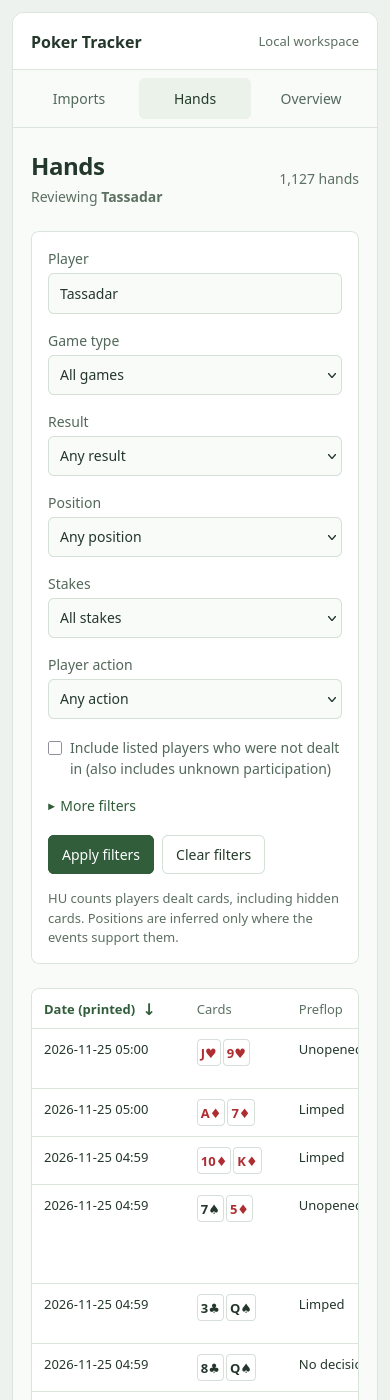
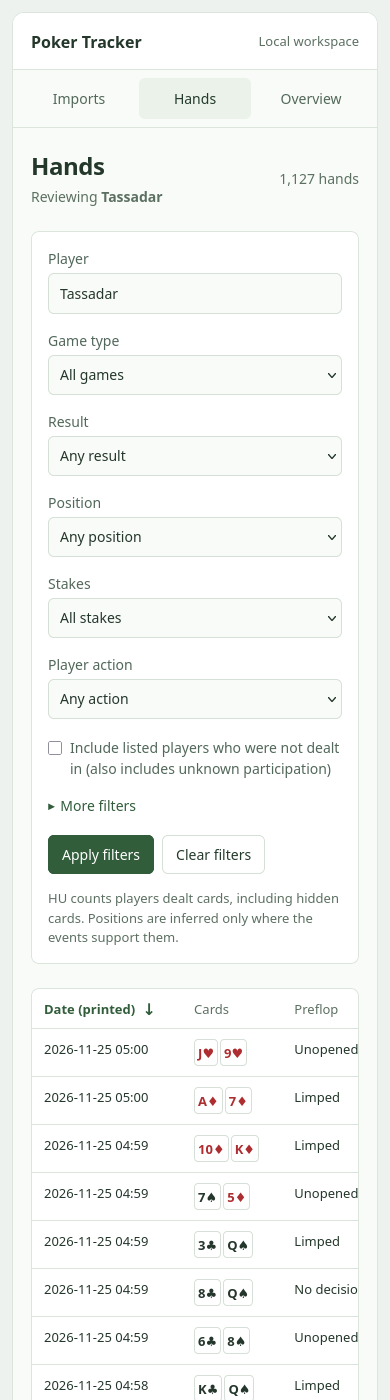
feat(hands): show compact hyphenated betting lines

diff --git a/frontend/src/features/hands/HandFilters.test.tsx b/frontend/src/features/hands/HandFilters.test.tsx
@@ -2,7 +2,7 @@ import { render, screen, waitFor, within } from '@testing-library/react';
 import userEvent from '@testing-library/user-event';
 import { HandsPage } from './HandsPage';
 
-function setup(hero:string|null='Tassadar',mixed=false) {
+function setup(hero:string|null='Tassadar',mixed=false,actionLine=[{street:'PF',actions:['R','C'],description:'Raise, Call'}]) {
   const requests:URLSearchParams[]=[];
   vi.stubGlobal('fetch',vi.fn(async(input:string)=>{
     const u=new URL(String(input),'http://localhost');
@@ -17,7 +17,7 @@ function setup(hero:string|null='Tassadar',mixed=false) {
         hole_cards:['Qh','9h'],boards:[['7d','Ah','3c','2h','As'],['Jh','7h','Td','5h','4s']],
         preflop_spot:'Limped',position:'UNKNOWN',position_evidence:'Incomplete first orbit',
         net_result:'0.18000000',net_result_display:'$0.18',starting_balance_display:'$4.61',posted_sb:'0.02000000',posted_bb:'0.05000000',nominal_bb:'0.05000000',nominal_sb:'0.02000000',
-        action_line:[{street:'PF',actions:['R','C'],description:'Raise, Call'}],
+        action_line:actionLine,
       }]});
     }
     throw new Error(String(input));
@@ -35,7 +35,7 @@ test('defaults to hero and renders compact cards, two boards, exact money and un
   expect(within(grid).getByText('HU · 2')).toBeInTheDocument();
   expect(within(grid).getByTitle('Incomplete first orbit')).toHaveTextContent('Unknown');
   expect(within(grid).getByRole('img',{name:'Jack of hearts'})).toBeInTheDocument();
-  expect(within(grid).getByTitle('PF: Raise, Call')).toHaveTextContent('PF RC');
+  expect(within(grid).getByTitle('PF: Raise, Call')).toHaveTextContent(/^RC$/);
 });
 
 test('applies combined player filters and resets pagination after changing selection',async()=>{
@@ -177,4 +177,18 @@ test('Net won header requires an applied player while Date works in all-hands mo
   expect(screen.getByRole('button',{name:'Net won'})).toBeDisabled();
   await user.click(screen.getByRole('button',{name:'Date (printed)'}));
   await waitFor(()=>expect(requests.at(-1)?.get('sort')).toBe('date_asc'));
+});
+
+
+test('shows a single hyphenated line with ordered actions grouped by street',async()=>{
+  setup('Tassadar',false,[
+    {street:'PF',actions:['R'],description:'Raise'},
+    {street:'F',actions:['X'],description:'Check'},
+    {street:'T',actions:['B'],description:'Bet'},
+    {street:'R',actions:['X','F'],description:'Check, Fold'},
+  ]);
+  render(<HandsPage/>);
+  await screen.findByRole('button',{name:/Open Reading hand/});
+  const line=within(screen.getByRole('table',{name:'Hand results'})).getByTitle('PF: Raise; F: Check; T: Bet; R: Check, Fold');
+  expect(line).toHaveTextContent(/^R-X-B-XF$/);
 });

diff --git a/frontend/src/features/hands/HandsPage.tsx b/frontend/src/features/hands/HandsPage.tsx
@@ -122,13 +122,16 @@ function SortHeader({label,column,sort,onSort,disabled=false,reason}:{label:stri
 }
 
 function HandRow({hand:h,actor,selected,open}:{hand:HandSummary;actor:boolean;selected:boolean;open:()=>void}) {
+  const lines=h.action_line??[];
+  const line=lines.map(street=>street.actions.join('')).join('-');
+  const lineDescription=lines.map(street=>`${street.street}: ${street.description}`).join('; ');
   const uncertain=h.posted_sb!=null&&h.nominal_sb==null||h.posted_bb!=null&&h.nominal_bb==null;
   return <tr aria-selected={selected}>
     <td className="date-cell">{h.started_at_local.replace('T',' ')}</td>
     <td>{actor?<Cards cards={h.hole_cards??[]}/>:<span className="muted">—</span>}</td>
     <td>{actor?h.player_dealt===false?'Not dealt':h.preflop_spot??'Unknown':'—'}</td>
     <td>{(h.boards??[]).length?(h.boards??[]).map((board,i)=><div key={i} className="runout" aria-label={`Board ${i+1}`}><Cards cards={board}/></div>):<span className="muted">—</span>}</td>
-    <td>{actor?(h.action_line??[]).map((line,i)=><span className="betting-line" key={i} title={`${line.street}: ${line.description}`}>{line.street} {line.actions.join('')}</span>):'—'}</td>
+    <td>{actor&&line?<span className="betting-line" title={lineDescription}>{line}</span>:'—'}</td>
     <td className={`numeric ${actor&&h.net_result?.startsWith('-')?'negative':actor?'positive':''}`}>{actor?h.net_result_display??'Unknown':'—'}</td>
     <td><span title={actor?h.position_evidence??'Insufficient evidence':undefined}>{actor?h.position==='UNKNOWN'||!h.position?'Unknown':h.position==='SB'&&h.game_type==='HU'?'SB / button':h.position:'—'}</span></td>
     <td title={uncertain?'Posted amounts; nominal stakes uncertain':'Ordinary blind posts'}>{compact(h.posted_sb)} / {compact(h.posted_bb)}{uncertain?' *':''}</td>

diff --git a/docs/handoffs/2026-11-26-hand-filters.md b/docs/handoffs/2026-11-26-hand-filters.md
@@ -110,3 +110,11 @@ filter/sort integration tests: 23 pass. Production Firefox checks at 1280px and 
 390px viewport pass, including header clicks rendering actual ASGI-sorted largest
 ($34.86) and smallest (-$20.45) results from the disposable sample library. The original full-suite evidence above
 precedes this UI-only follow-up.
+
+## Compact betting line follow-up
+
+The Line column displays one hyphenated action string, e.g. `R-X-B-XF`, with
+multiple actions on the same street kept together. Street labels remain in hover
+text; the grid shows no street prefixes. Hands without observed actions display a
+dash rather than invented checks. Only presentation changes; normalized event groups
+and full details are preserved. Frontend suite: 25 tests and production build pass.
